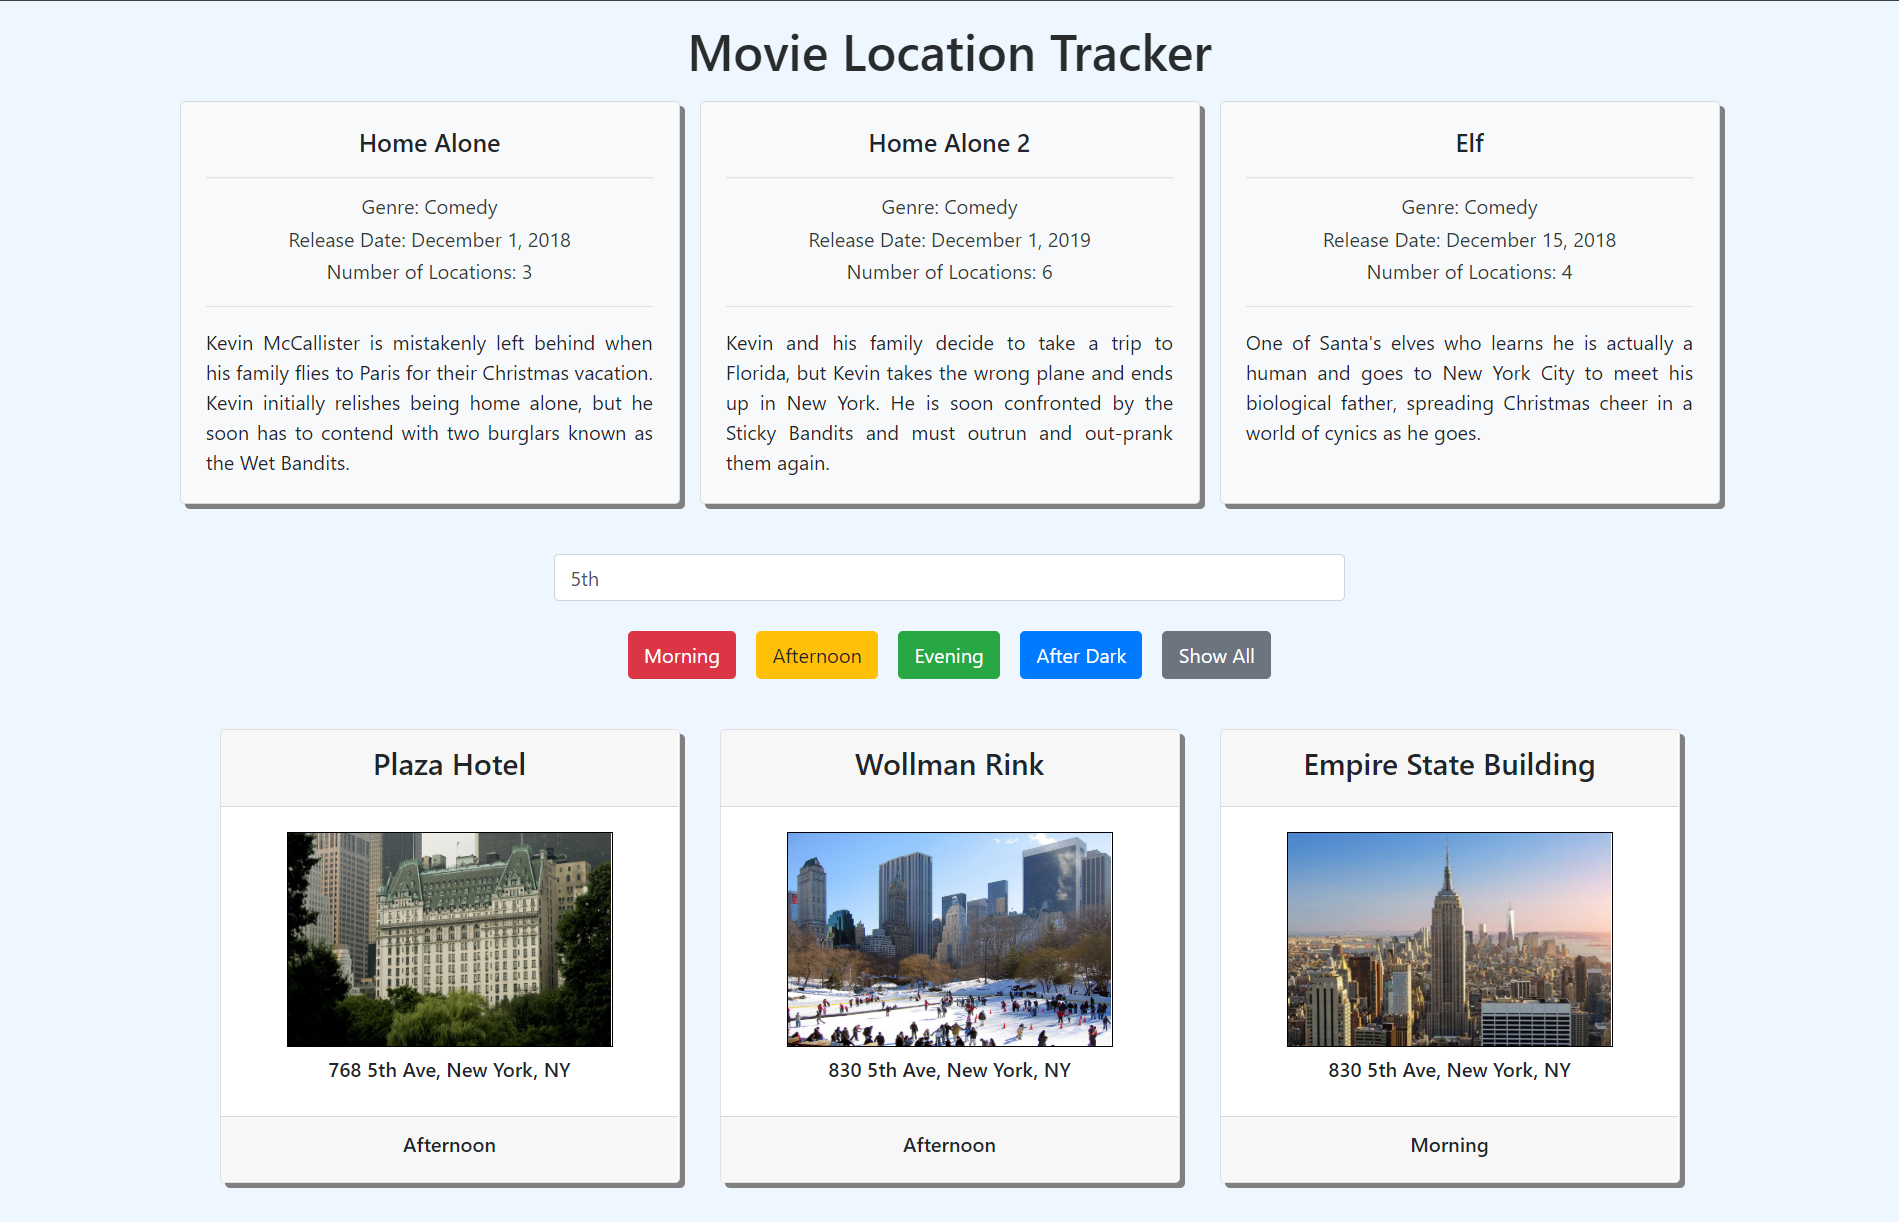
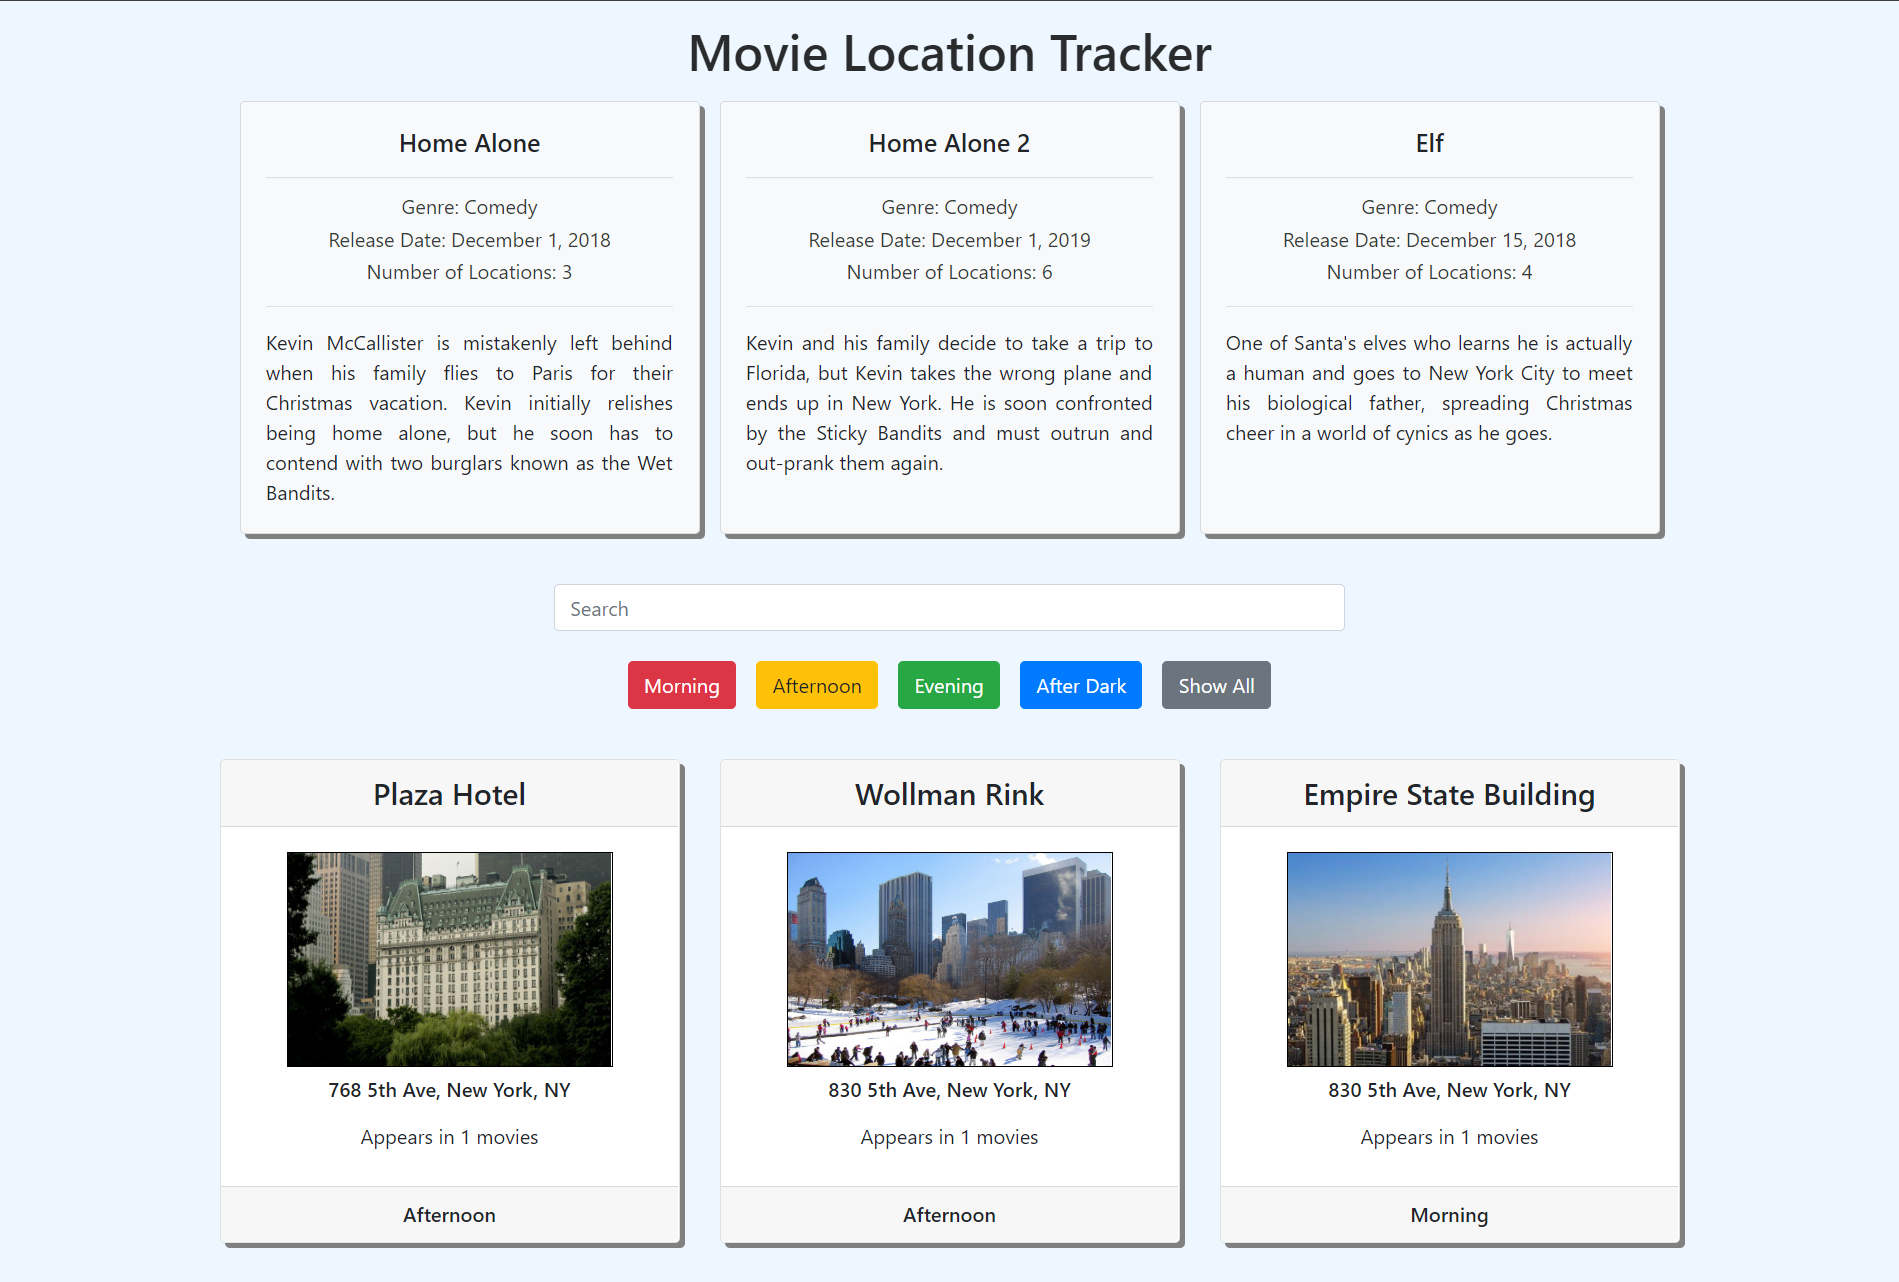
added movies to locations & added screenshots

diff --git a/javascripts/components/locationComponent.js b/javascripts/components/locationComponent.js
@@ -1,30 +1,58 @@
 import { loadLocations } from "../data/locationData.js";
+import { loadMovies } from "../data/movieData.js";
 
-const writeLocations = (locationsArray, divId) => {
+const writeLocations = (locationsArray) => {
     let domString = '';
     locationsArray.forEach((locations) => {
-        domString += `<div id="${locations.id}" class="card locations flex-row-wrap text-center m-3" style="width: 23rem;">`
+        domString += `<div id="${locations.id}" class="card locations flex-row-wrap text-center m-3" style="max-width: 23rem;">`
         domString += `<div class="card-header card-search">`
         domString += `<h4 class="location-name">${locations.name}</h>`
         domString += `</div>`
-        domString += `<div class="card-body card-search">`
+        domString += `<div class="card-body">`
         domString += `<img class="location-img" style="width:80%; height:10.75rem;" src="${locations.imageUrl}" alt="${locations.name}">`
-        domString += `<h6 class="card-text address py-2">${locations.address}</h6>`
+        domString += `<h6 class="card-text card-search py-2">${locations.address}</h6>`
+        domString += `<p class="card-text py-2 m-0">Appears in ${locations.movies.length} movies</p>`
         domString += `</div>`
         domString += `<div class="card-footer">`
         domString += `<h6 class="shoot-time">${locations.shootTime}</h6>`
         domString += `</div>`
         domString += `</div>`
     })
-    $(divId).append(domString)
+    $("#locations").append(domString)
+}
+
+const writeLocationsSingleMovie = (locationsArray) => {
+    let domString = '';
+    locationsArray.forEach((locations) => {
+        domString += `<div id="${locations.id}" class="card locations flex-row-wrap text-center m-3" style="max-width: 23rem;">`
+        domString += `<div class="card-header card-search">`
+        domString += `<h4 class="location-name">${locations.name}</h>`
+        domString += `</div>`
+        domString += `<div class="card-body">`
+        domString += `<img class="location-img" style="width:80%; height:10.75rem;" src="${locations.imageUrl}" alt="${locations.name}">`
+        domString += `<h6 class="card-text card-search py-2">${locations.address}</h6>`
+        domString += `</div>`
+        domString += `<div class="card-footer">`
+        domString += `<h6 class="shoot-time">${locations.shootTime}</h6>`
+        domString += `</div>`
+        domString += `</div>`
+    })
+    $("#movie-view-location").append(domString)
 }
 
 const initialLocationView = () => {
     loadLocations().then((locations) => {
-        writeLocations(locations, "#locations")
+        loadMovies().then((movies) => {
+            const locationsWithMovies = locations.map((location) => {
+                const newLocation = location;
+                newLocation.movies = movies.filter(movie => movie.locations.includes(location.id));
+                return newLocation;
+            })
+            writeLocations(locationsWithMovies)
+        })
     }).catch((error) => {
         console.log('error on initialLocationsView', error)
     })
 }
 
-export {initialLocationView, writeLocations}
+export { initialLocationView, writeLocations, writeLocationsSingleMovie }

diff --git a/javascripts/components/movieComponent.js b/javascripts/components/movieComponent.js
@@ -1,12 +1,12 @@
 import { loadMovies, loadMovieLocations } from "../data/movieData.js";
 import { loadLocationsForMovie } from "../data/locationData.js";
-import { bindEvents, movieClickEvent, backEvent } from "../events.js";
-import { writeLocations } from "./locationComponent.js";
+import { bindEvents, movieClickEvent } from "../events.js";
+import { writeLocationsSingleMovie } from "./locationComponent.js";
 
 const writeMovie = (movieArray) => {
     let domString = '';
     movieArray.forEach((movie) => {
-        domString += `<div id="${movie.id}" class="card card-movie d-flex m-2 bg-light" style="width: 25rem;">`
+        domString += `<div id="${movie.id}" class="card card-movie d-flex m-2 bg-light" style="max-width: 28rem;">`
         domString += `<div class="card-body">`
         domString += `<h5 class="card-title text-center">${movie.name}</h5>`
         domString += `<hr>`
@@ -26,7 +26,7 @@ const writeSingleMovie = (moviesArr, clickedMovieId) => {
     let domString = '';
     moviesArr.forEach((movie) => {
         if (movie.id === clickedMovieId){
-            domString += `<div id="${movie.id}" class="card card-movie d-flex m-2 bg-light" style="width: 25rem;">`
+            domString += `<div id="${movie.id}" class="card card-movie d-flex m-2 bg-light" style="max-width: 28rem;">`
             domString += `<div class="card-body">`
             domString += `<h5 class="card-title text-center">${movie.name}</h5>`
             domString += `<hr>`
@@ -47,7 +47,7 @@ const singleMovieView = (movieId) => {
         // data is the movie.locations array for the clicked movie
         return loadLocationsForMovie(data)
     }).then((moviesWithLocations) => {
-        writeLocations(moviesWithLocations, "#movie-view-location")
+        writeLocationsSingleMovie(moviesWithLocations);
     }).catch((error) => {
         console.log('error on singleMovieView', error)
     })

diff --git a/index.html b/index.html
@@ -12,13 +12,13 @@
 </head>
 
 <body>
-    <div id="initial-view" class="my-3">
+    <div id="initial-view" class="m-1">
         <h1 class="text-center mb-2">Movie Location Tracker</h1>
         <div class="row">
-            <div id="movie" class="card-deck mx-auto"></div>
+            <div id="movie" class="card-deck d-flex mx-auto"></div>
         </div>
         <div class="row d-flex justify-content-center mt-4" id="search">
-            <input type="search" class="form-control col-5 mx-auto mt-2" id="search-bar" placeholder="Search">
+            <input type="search" class="form-control col-md-5 mx-auto mt-2" id="search-bar" placeholder="Search">
         </div>
         <div class="row d-flex justify-content-center my-3">
             <button type="button" id="morning" class="btn btn-danger btn-time d-block m-2">Morning</button>
@@ -27,9 +27,9 @@
             <button type="button" id="after-dark" class="btn btn-primary btn-time d-block m-2">After Dark</button>
             <button type="button" id="show-all" class="btn btn-secondary btn-time d-block m-2">Show All</button>
         </div>
-        <div id="locations" class="row justify-content-center"></div>
+        <div id="locations" class="row d-flex justify-content-center"></div>
     </div>
-    <div id="movie-view" style="display: none;" class="mb-3">
+    <div id="movie-view" style="display: none;">
         <button type="button" id="btn-back" class="btn btn-secondary m-1">Back to Homepage</button>
         <div id="single-movie" class="d-flex justify-content-center my-3"></div>
         <div id="movie-view-location" class="row justify-content-center mb-3"></div>

diff --git a/main.css b/main.css
@@ -6,6 +6,10 @@ h1 {
     color: #292b2c;
 }
 
+h4, h6 {
+    margin: 0;
+}
+
 .card {
     box-shadow: 0.25rem 0.25rem gray;
 }
